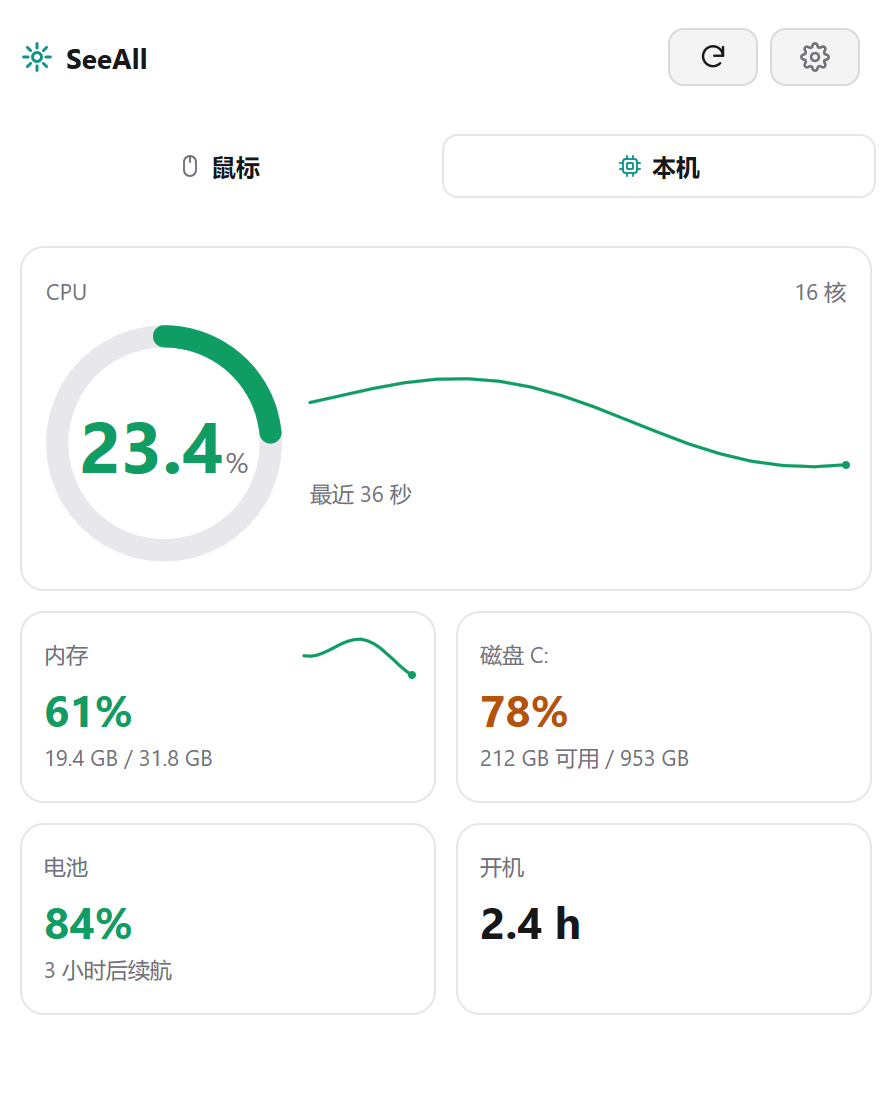
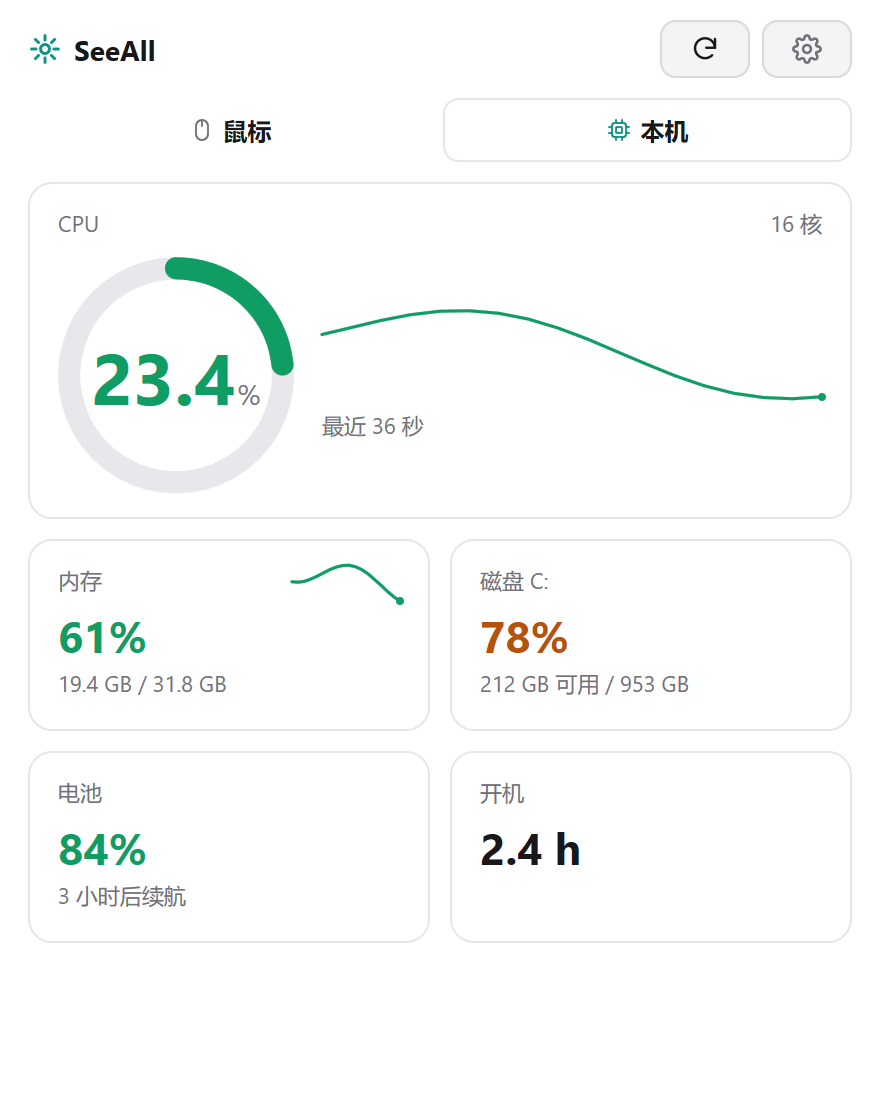
refactor: 间距收成一套刻度，页面之间对齐
各页原来各写各的 padding：卡片 14/12、主卡 14/12、小卡 13/11、设置页标题
字号不同、行间距 4/6/10 混用。同一块面板上每页的左右边缘差几个像素。

收成 theme.go 里五个常量（Gutter / CardGap / cardPadX / cardPadY / cardRadius /
controlRadius），卡片、页面、标题栏、标签页全部读它们。

顺带修正一个写反的参数：ui.Element.Padding 两个参数是「垂直, 水平」（四个才是
上右下左），卡片原来传 (14, 12) 实际拿到的是上下 14、左右 12。

设置页的行改成 controlRow：左边文案 Grow(1)，右边控件 Shrink(0)，
所以每个开关和按钮都收在同一右边缘上（实测 631）。

新增 TestPagesShareOneGutter：三个页面各取「卡片左边缘的文字」和「右边缘的文字」，
断言它们落在同两条竖线上，并等于 Gutter + cardPadX (+ 边框)。把设置页内缩
改 4px 会挂，确认咬得住。

验证：go build / go vet / gofmt 干净，go test 全绿；打包版 exe 截图核对两页。

diff --git a/internal/panel/settings.go b/internal/panel/settings.go
@@ -15,15 +15,11 @@ import (
 // settings is the panel's settings page: which monitors run, what each one
 // watches, and how the app itself behaves.
 func (a *App) settings(c *ui.Context, p palette, instances []*app.Instance) {
-	ui.Scroll(c).Fill().Padding(14, 4, 14, 10).Gap(10).Children(func() {
+	ui.Scroll(c).Fill().Padding(CardGap, Gutter).Gap(CardGap).Children(func() {
 		ui.Text(c, "设置").FontSize(13).Bold()
 		card(c, p).Children(func() {
 			label(c, p, "应用")
-			ui.Row(c).AlignItems(ui.Center).Gap(10).Children(func() {
-				ui.Column(c).Grow(1).Gap(1).Children(func() {
-					ui.Text(c, "开机自启").FontSize(12)
-					ui.Text(c, "登录后在托盘里待命").FontSize(11).TextColor(p.TextMuted)
-				})
+			controlRow(c, p, "开机自启", "登录后在托盘里待命", func() {
 				on := a.Host.StartAtLogin()
 				if ui.Switch(c, &on).Label("开机自启").Changed() {
 					if err := mygo.App.SetOpenAtLogin(on); err != nil {
@@ -34,12 +30,10 @@ func (a *App) settings(c *ui.Context, p palette, instances []*app.Instance) {
 				}
 			})
 			hline(c, p)
-			ui.Row(c).AlignItems(ui.Center).Gap(10).Children(func() {
-				ui.Column(c).Grow(1).Gap(1).Children(func() {
-					ui.Text(c, "通知").FontSize(12)
-					ui.Text(c, "电量低、状态异常时弹系统通知").FontSize(11).TextColor(p.TextMuted)
-				})
-				if ui.Button(c, "全部刷新").Clicked() {
+			controlRow(c, p, "通知", "电量低、状态异常时弹系统通知", func() {
+				if ui.Button(c, "").Label("全部刷新").Children(func() {
+					ui.Text(c, "全部刷新").FontSize(11).SingleLine()
+				}).Clicked() {
 					a.Host.Refresh()
 					c.Toast("已刷新全部监控项")
 				}
@@ -75,24 +69,26 @@ func (a *App) instanceCard(c *ui.Context, p palette, in *app.Instance) {
 			if confirming {
 				buttonLabel = "确认移除"
 			}
-			if ui.Button(c, "").Label(buttonLabel).Tooltip("移除这个监控项").Children(func() {
-				ui.Text(c, buttonLabel).FontSize(11).SingleLine()
-			}).Clicked() {
-				if confirming {
-					a.confirmRemove = ""
-					a.Host.Remove(in.ID)
-					for key := range a.drafts {
-						if strings.HasPrefix(key, in.ID+"/") {
-							delete(a.drafts, key)
+			ui.Row(c).Shrink(0).Children(func() {
+				if ui.Button(c, "").Label(buttonLabel).Tooltip("移除这个监控项").Children(func() {
+					ui.Text(c, buttonLabel).FontSize(11).SingleLine()
+				}).Clicked() {
+					if confirming {
+						a.confirmRemove = ""
+						a.Host.Remove(in.ID)
+						for key := range a.drafts {
+							if strings.HasPrefix(key, in.ID+"/") {
+								delete(a.drafts, key)
+							}
 						}
+						a.ensureSelection(a.Host.Instances())
+						a.SetSelected(a.Selected())
+						c.Toast("已移除 " + in.Name)
+					} else {
+						a.confirmRemove = in.ID
 					}
-					a.ensureSelection(a.Host.Instances())
-					a.SetSelected(a.Selected())
-					c.Toast("已移除 " + in.Name)
-				} else {
-					a.confirmRemove = in.ID
 				}
-			}
+			})
 		})
 
 		for _, def := range m.Settings {
@@ -132,34 +128,27 @@ func (a *App) commit(in *app.Instance, key, value string) {
 func (a *App) settingField(c *ui.Context, p palette, in *app.Instance, def plugin.Setting, drafts map[string]string) {
 	switch def.Type {
 	case plugin.SettingBool:
-		ui.Row(c).AlignItems(ui.Center).Gap(10).Children(func() {
-			ui.Column(c).Grow(1).Gap(0).Children(func() {
-				ui.Text(c, def.Label).FontSize(12)
-				if def.Description != "" {
-					ui.Text(c, def.Description).FontSize(11).TextColor(p.TextMuted).Wrap()
-				}
-			})
-			on := in.Settings().Bool(def.Key, def.Default == "true")
+		on := in.Settings().Bool(def.Key, def.Default == "true")
+		controlRow(c, p, def.Label, def.Description, func() {
 			if ui.Switch(c, &on).Label(def.Label).Changed() {
 				a.commit(in, def.Key, strconv.FormatBool(on))
 			}
 		})
 	case plugin.SettingChoice:
-		ui.Row(c).AlignItems(ui.Center).Gap(10).Children(func() {
-			ui.Text(c, def.Label).FontSize(12).Grow(1)
-			values := make([]string, 0, len(def.Options))
-			lookup := map[string]string{}
-			for _, o := range def.Options {
-				values = append(values, o.Label)
-				lookup[o.Label] = o.Value
+		values := make([]string, 0, len(def.Options))
+		lookup := map[string]string{}
+		for _, o := range def.Options {
+			values = append(values, o.Label)
+			lookup[o.Label] = o.Value
+		}
+		current := drafts[def.Key]
+		chosen := current
+		for _, o := range def.Options {
+			if o.Value == current {
+				chosen = o.Label
 			}
-			current := drafts[def.Key]
-			chosen := current
-			for _, o := range def.Options {
-				if o.Value == current {
-					chosen = o.Label
-				}
-			}
+		}
+		controlRow(c, p, def.Label, def.Description, func() {
 			if ui.Select(c, &chosen, values).Label(def.Label).Changed() {
 				a.commit(in, def.Key, lookup[chosen])
 			}
@@ -190,6 +179,21 @@ func (a *App) settingField(c *ui.Context, p palette, in *app.Instance, def plugi
 			}
 		})
 	}
+}
+
+// controlRow is one line of a settings card: what it is and what it does on
+// the left, its control on the right. The text grows and the control keeps its
+// own width, so every control on the page ends on the card's inner edge.
+func controlRow(c *ui.Context, p palette, title, detail string, control func()) {
+	ui.Row(c).AlignItems(ui.Center).Gap(10).Children(func() {
+		ui.Column(c).Grow(1).Gap(1).Children(func() {
+			ui.Text(c, title).FontSize(12)
+			if detail != "" {
+				ui.Text(c, detail).FontSize(11).TextColor(p.TextMuted)
+			}
+		})
+		ui.Row(c).Shrink(0).AlignItems(ui.Center).Children(control)
+	})
 }
 
 func parsesNumber(s string) bool {

diff --git a/internal/panel/align_test.go b/internal/panel/align_test.go
@@ -1,0 +1,63 @@
+package panel
+
+import (
+	"testing"
+
+	"github.com/egoist/mygo/ui"
+)
+
+// TestPagesShareOneGutter checks the panel's pages line up with one another:
+// the text at the left edge of a card and the text at its right edge sit on the
+// same two vertical lines on every page. A button a few pixels in from the
+// card's edge, or a page whose gutter differs, is what this catches.
+func TestPagesShareOneGutter(t *testing.T) {
+	pages := []struct {
+		row string
+		// left and right name a text at the card's left edge and one at its
+		// right: a title on the left, a value or a control on the right.
+		left, right string
+	}{
+		{"mouse", "Rapoo Gaming Device", "无线"},
+		{"system", "CPU", "16 核"},
+		{SettingsPage, "应用", "全部刷新"},
+	}
+
+	// The first page sets the lines; the others must land on them.
+	var wantLeft, wantRight float32
+	for i, page := range pages {
+		_, p := fixture(t)
+		p.SetSize(Fit(1920, 1040, 1))
+		p.SetSelected(page.row)
+		tt := ui.NewTester(func(c *ui.Context) { p.View(c) }, DesignWidth, DesignHeight)
+
+		left, ok := tt.Find(page.left)
+		if !ok {
+			t.Fatalf("%s: the card's left edge is missing (%q): %v", page.row, page.left, tt.Texts())
+		}
+		right, ok := tt.Find(page.right)
+		if !ok {
+			t.Fatalf("%s: the card's right edge is missing (%q): %v", page.row, page.right, tt.Texts())
+		}
+		if i == 0 {
+			wantLeft, wantRight = left.X, right.X+right.W
+		}
+		if left.X != wantLeft {
+			t.Errorf("%s: %q starts at x=%v, but the pages before it start at %v",
+				page.row, page.left, left.X, wantLeft)
+		}
+		if got := right.X + right.W; got != wantRight {
+			t.Errorf("%s: %q ends at x=%v, but the pages before it end at %v",
+				page.row, page.right, got, wantRight)
+		}
+	}
+
+	// And the lines are the panel's gutter plus a card's padding and border,
+	// not a number that happens to agree.
+	const border = 1
+	if want := float32(Gutter + cardPadX + border); wantLeft != want {
+		t.Errorf("the cards start their text at x=%v, want %v", wantLeft, want)
+	}
+	if want := float32(DesignWidth - Gutter - cardPadX - border); wantRight != want {
+		t.Errorf("the cards end their text at x=%v, want %v", wantRight, want)
+	}
+}

diff --git a/internal/panel/app.go b/internal/panel/app.go
@@ -99,7 +99,9 @@ func (a *App) View(c *ui.Context) {
 // header is the title bar: what the panel is, and the refresh it offers from
 // any page.
 func (a *App) header(c *ui.Context, p palette) {
-	ui.Row(c).Shrink(0).Padding(14, 10).Gap(6).AlignItems(ui.Center).Children(func() {
+	// The logo and the page's cards share a left edge: the panel's gutter,
+	// which the cards' own padding then insets their text from.
+	ui.Row(c).Shrink(0).Padding(CardGap, Gutter).Gap(6).AlignItems(ui.Center).Children(func() {
 		ui.Icon(c, iconLogo).FontSize(17).TextColor(p.Accent)
 		ui.Text(c, "SeeAll").FontSize(14).Bold().Grow(1)
 		if ui.Button(c, "").Label("刷新").Description("刷新全部").Tooltip("刷新全部（Ctrl+R）").Children(func() {
@@ -125,13 +127,13 @@ func (a *App) tabs(c *ui.Context, p palette, instances []*app.Instance) {
 	if len(items) == 0 {
 		return
 	}
-	ui.Row(c).Shrink(0).Padding(10, 2).Children(func() {
+	ui.Row(c).Shrink(0).Padding(0, Gutter, 0, Gutter).Children(func() {
 		tabs := ui.TabsBase(c, &a.tab, len(items))
 		// The settings are not a tab, so none of them is lit while they
 		// show: a lit tab would claim a page that is not on screen.
 		lit := a.Selected() != SettingsPage
 		clicked := -1
-		tabs.List.FillWidth().Gap(4).Children(func() {
+		tabs.List.FillWidth().Gap(CardGap / 2).Children(func() {
 			for i, in := range items {
 				tab := a.tabButton(c, p, tabs.Tab(i), lit && i == a.tab,
 					iconFor(in.Manifest().Icon), in.Name, in.Snapshot().Status)
@@ -158,7 +160,7 @@ func (a *App) tabs(c *ui.Context, p palette, instances []*app.Instance) {
 // the monitor behind it is fine, which the page cannot show for the tabs it is
 // not on.
 func (a *App) tabButton(c *ui.Context, p palette, tab ui.Element, on bool, icon *ui.SVG, name string, status core.Status) ui.Element {
-	tab.Grow(1).Basis(0).Justify(ui.Center).Padding(7, 8).Radius(8).
+	tab.Grow(1).Basis(0).Justify(ui.Center).Padding(7, 8).Radius(controlRadius).
 		Gap(5).AlignItems(ui.Center).FocusRing(false)
 	if on {
 		tab.Background(p.Card).Border(1, p.CardBorder)

diff --git a/internal/panel/detail.go b/internal/panel/detail.go
@@ -29,7 +29,7 @@ func (a *App) detail(c *ui.Context, p palette, in *app.Instance) {
 	m := in.Manifest()
 	snap := in.Snapshot()
 
-	ui.Scroll(c).Fill().Padding(14, 4, 14, 10).Gap(10).Children(func() {
+	ui.Scroll(c).Fill().Padding(CardGap, Gutter).Gap(CardGap).Children(func() {
 		if m.Combined {
 			a.combined(c, p, in, snap)
 		} else {
@@ -51,7 +51,7 @@ func (a *App) hero(c *ui.Context, p palette, in *app.Instance, snap core.Snapsho
 		return
 	}
 
-	card(c, p).Shrink(0).Padding(14, 12).Children(func() {
+	card(c, p).Shrink(0).Children(func() {
 		ui.Row(c).Gap(4).AlignItems(ui.Baseline).Children(func() {
 			label(c, p, primary.Label)
 			ui.Spacer(c)
@@ -79,7 +79,7 @@ func (a *App) combined(c *ui.Context, p palette, in *app.Instance, snap core.Sna
 		}
 	}
 
-	card(c, p).Shrink(0).Padding(15, 13).Gap(8).Children(func() {
+	card(c, p).Shrink(0).Children(func() {
 		// The device first: what the numbers below belong to.
 		ui.Row(c).Gap(8).AlignItems(ui.Center).Children(func() {
 			ui.Text(c, deviceName(snap)).FontSize(13).Bold().NoWrap().MaxLines(1).Grow(1)
@@ -240,7 +240,7 @@ func (a *App) readingCard(c *ui.Context, p palette, in *app.Instance, r core.Rea
 	if r.Severity != core.SeverityNone {
 		valueColor = p.severityColor(r.Severity)
 	}
-	card(c, p).Padding(13, 11).Gap(2).MinHeight(96).Children(func() {
+	card(c, p).Gap(2).MinHeight(96).Children(func() {
 		// The label and the trend share the card's top row, the trend at its
 		// right, so the eye finds the shape of a value in the same place on
 		// every card.

diff --git a/internal/panel/theme.go b/internal/panel/theme.go
@@ -8,6 +8,21 @@ import (
 	"seeall/internal/core"
 )
 
+// The panel's spacing is one scale, so that every edge on a page lines up with
+// the edges on the pages beside it: the title bar, the tabs, the cards and the
+// settings all start at the same gutter and end at the same one.
+const (
+	// Gutter is the room between the panel's edges and what it shows.
+	Gutter = 14
+	// CardGap is the room between two cards, and above and below a card.
+	CardGap = 10
+	// cardPadX and cardPadY are the room a card leaves inside itself.
+	cardPadX, cardPadY = 14, 12
+	// cardRadius rounds cards; controlRadius rounds the controls on them.
+	cardRadius    = 12
+	controlRadius = 8
+)
+
 // palette is SeeAll's look: one surface, one accent, and the three states
 // that the whole app uses for severity. It follows the desktop's light or
 // dark appearance, so the panel looks like part of the system.

diff --git a/internal/panel/widgets.go b/internal/panel/widgets.go
@@ -64,9 +64,10 @@ func label(c *ui.Context, p palette, text string) ui.Element {
 	return ui.Text(c, text).FontSize(11).TextColor(p.TextMuted).NoWrap()
 }
 
-// card is the panel's surface with a faint outline.
+// card is the panel's surface with a faint outline, at the one padding and
+// radius every card on every page uses.
 func card(c *ui.Context, p palette) ui.Element {
-	return ui.Column(c).Padding(14).Gap(10).Radius(12).
+	return ui.Column(c).Padding(cardPadY, cardPadX).Gap(CardGap).Radius(cardRadius).
 		Background(p.Card).Border(1, p.CardBorder)
 }
 
